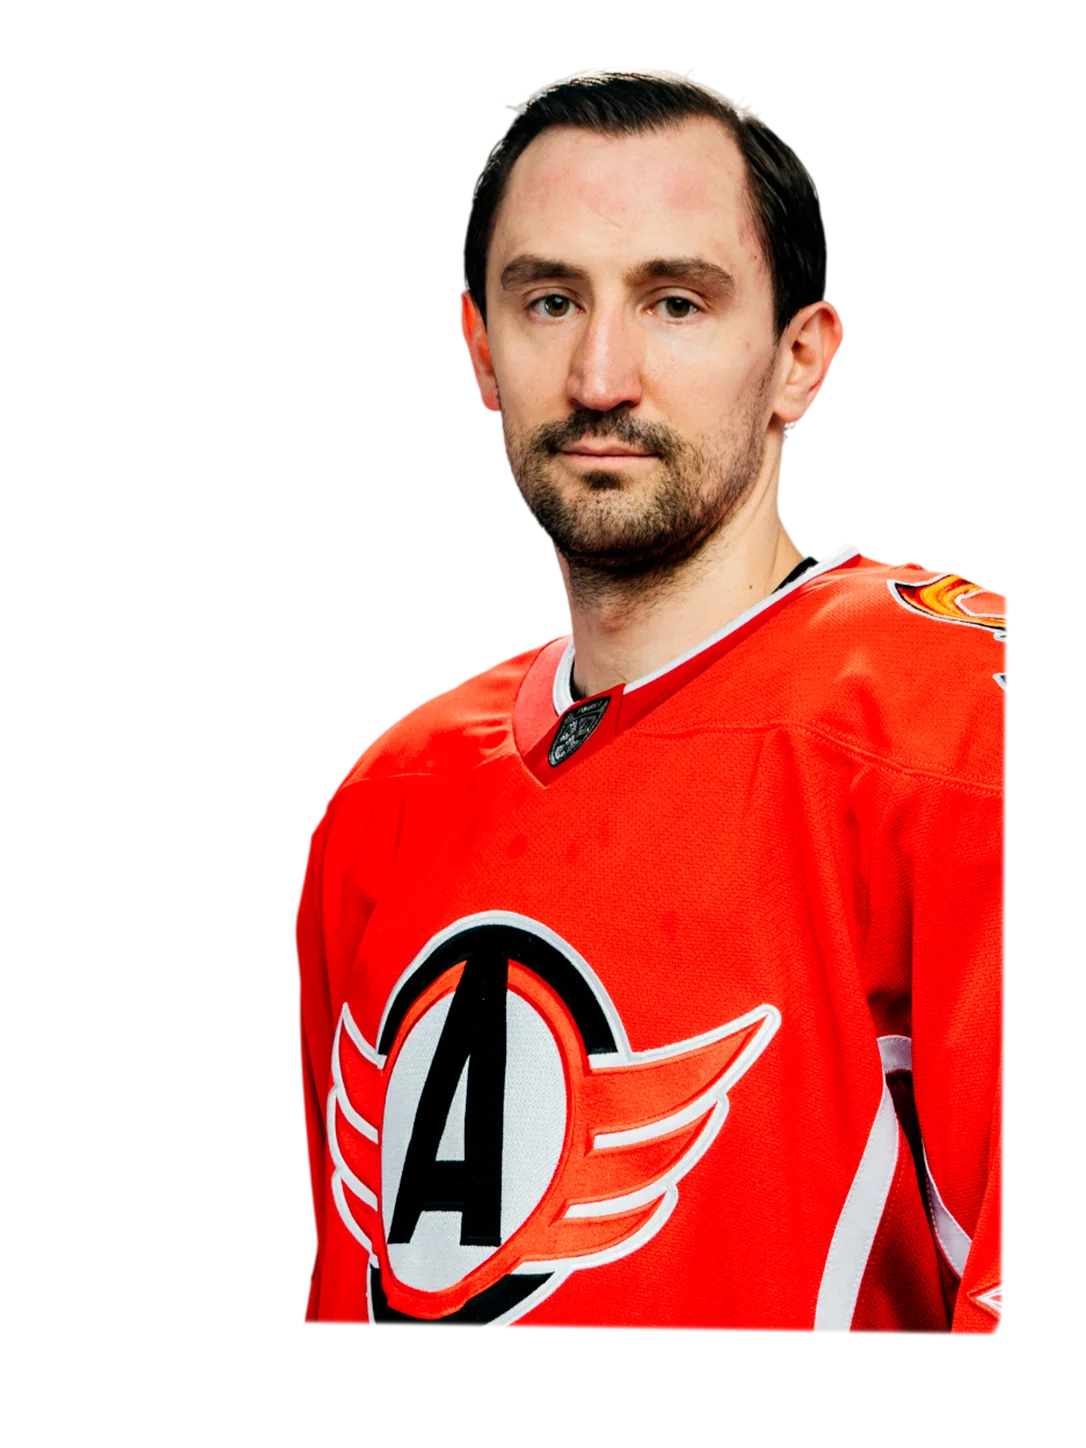
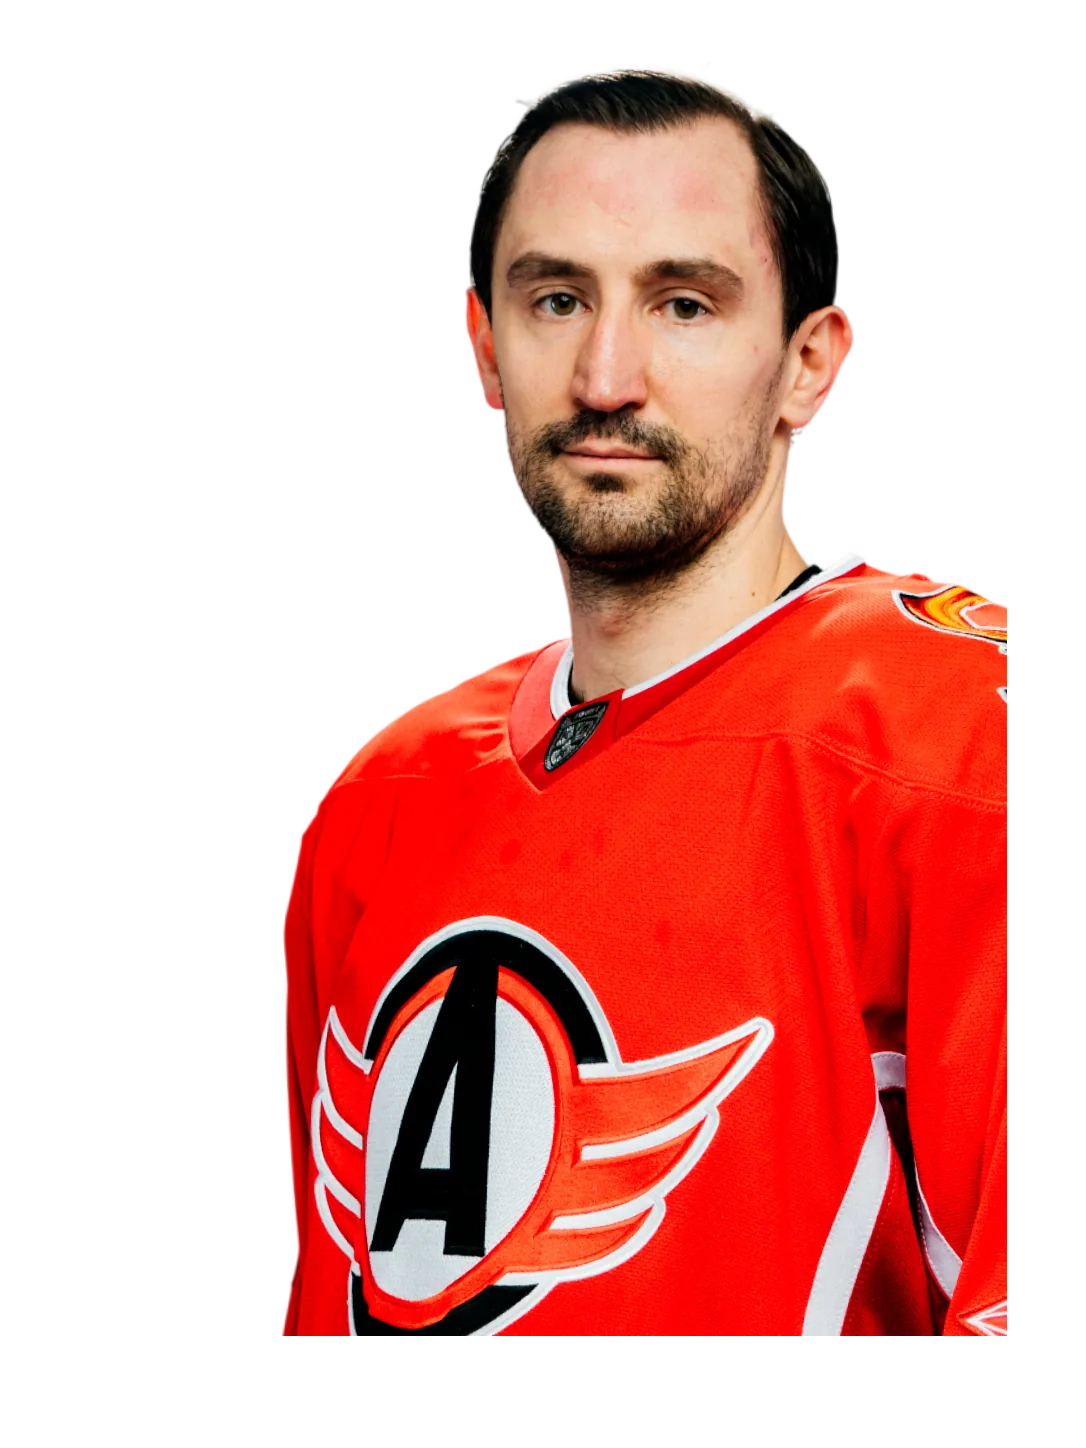
Update Karpovich and Slepyshev player photos

diff --git a/src/utils/AssetUrlVersioner.js b/src/utils/AssetUrlVersioner.js
@@ -1,4 +1,4 @@
-const assetVersion = "2026-10-10-player-photos";
+const assetVersion = "2026-10-10-player-photos-2";
 
 export function versionAssetUrl(assetUrl) {
   if (!assetUrl || !assetUrl.startsWith("/assets/")) return assetUrl;
